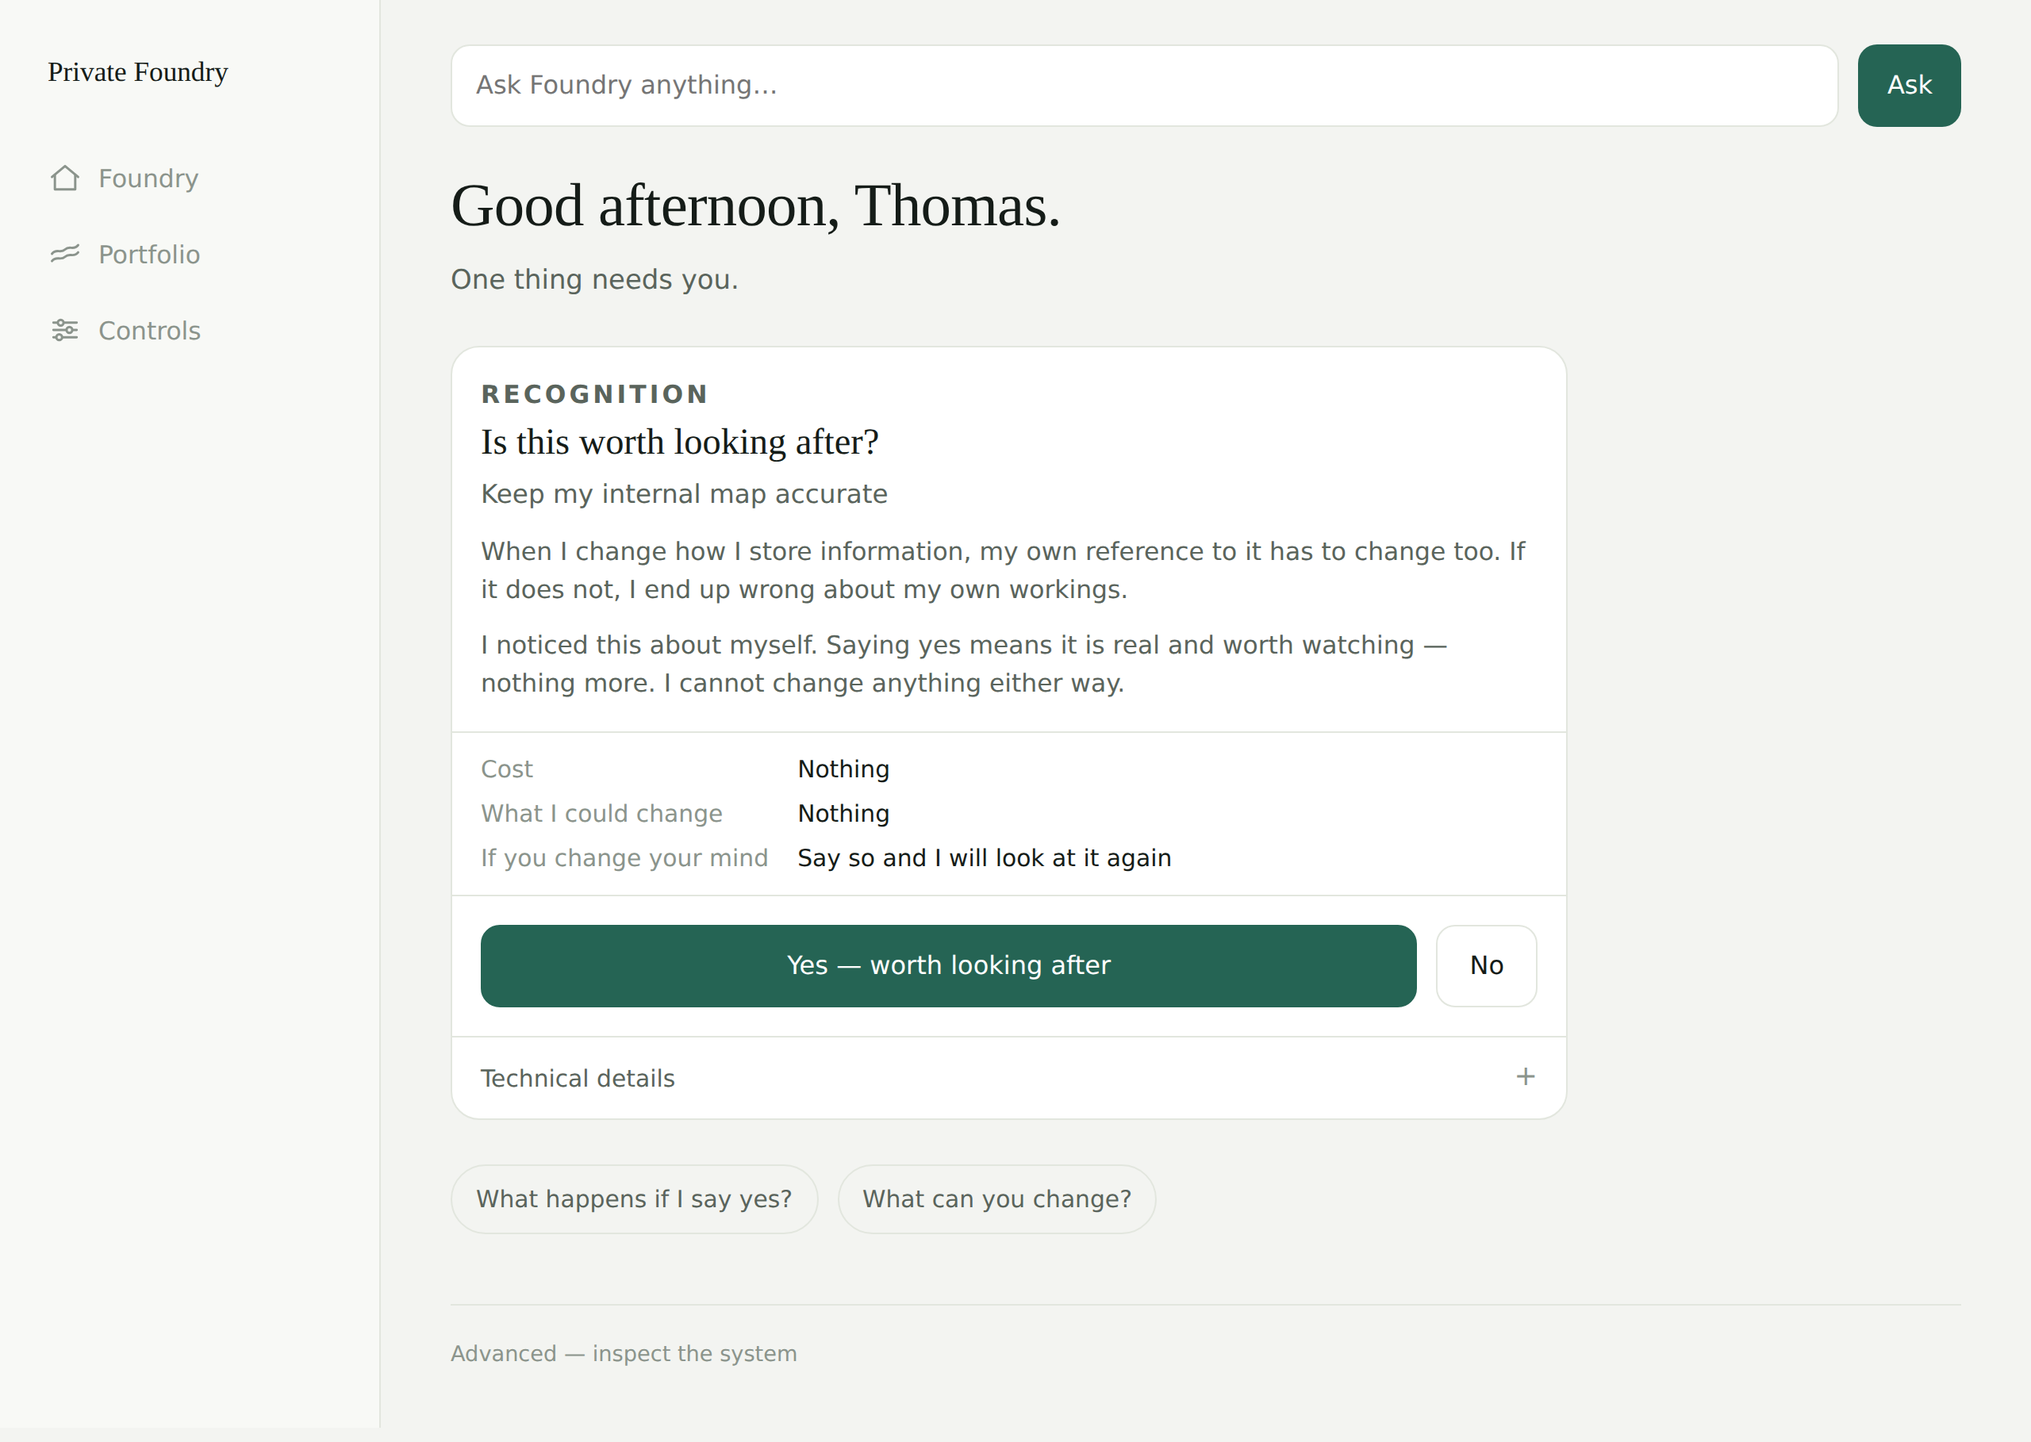
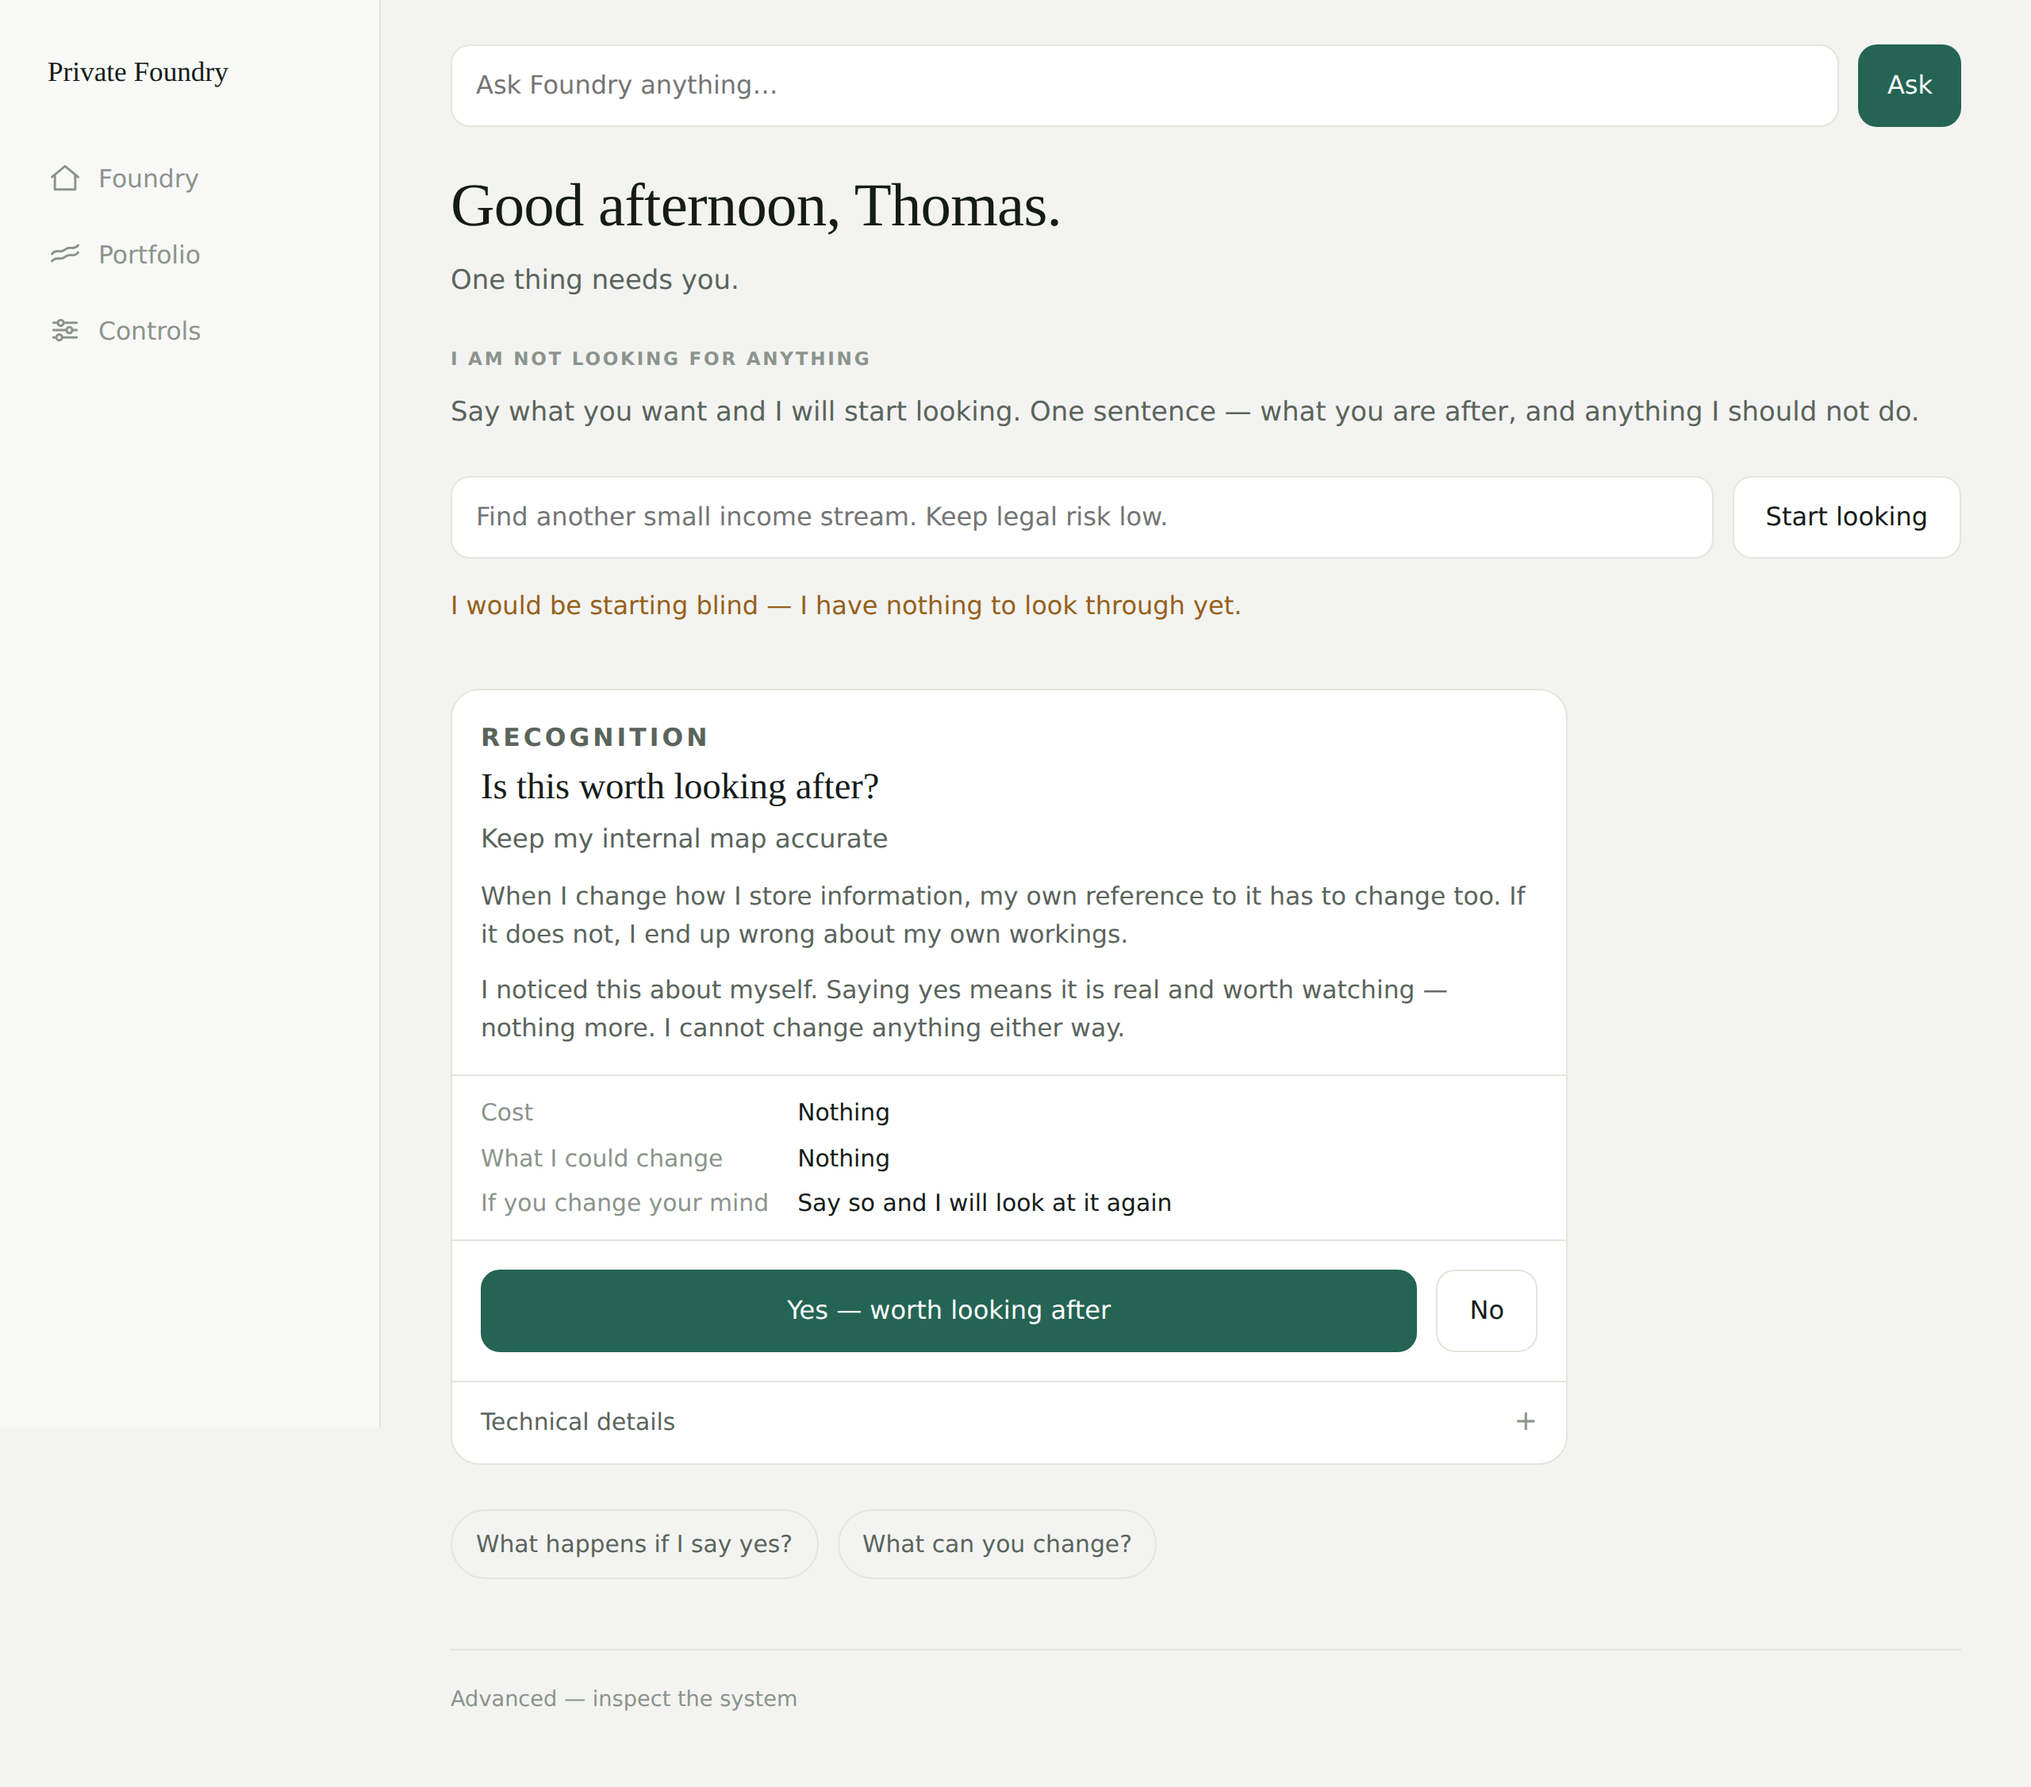
Nothing on any screen offered the search [deploy-private]
Found by reading the deployed database rather than by any test. Production has
never opened a venture mandate and could not have: the whole search card is
built only when a search already exists, so an owner who has never started one
sees nothing about it at all — no sign that Foundry could look for another
asset, no sign of what it can see through, and no way to begin. The route to
begin was there the whole time, reachable by nobody.

A capability the owner cannot discover from his own product is a capability he
does not have.

So: one sentence and one box, because the act is his and the act is a sentence.
It says what it would be looking through, and says plainly that it would be
starting blind when it has nothing — an offer to go looking from an institution
with no eyes is a promise it cannot keep, and he should be able to tell the
difference without asking.

The offer is styled secondary, not primary. The first screen has exactly one
thing to press and that is whatever actually needs him; an existing gate caught
the second primary button and was right to.

Also fixes an ordering defect in the sense check shipped an hour ago: it ran at
05:50, after the 05:45 job that opens the eyes, so a sense promoted this morning
could not be looked through until tomorrow — a whole day of "I have nowhere to
look" caused by nothing but the order of two jobs. It now runs at 05:40.

Both were invoked in production through the institution's own CLI rather than
[…]

diff --git a/tests/unit/nothing-offered-the-search.test.ts b/tests/unit/nothing-offered-the-search.test.ts
@@ -1,0 +1,89 @@
+process.env.TURSO_DATABASE_URL = 'file::memory:';
+process.env.ENCRYPTION_KEY = '0'.repeat(64);
+process.env.FOUNDRY_INSTANCE_POSTURE = 'private_owner';
+process.env.FOUNDRY_OWNER_EMAIL = 'owner@example.com';
+
+import { Hono } from 'hono';
+import { beforeAll, describe, expect, it } from 'vitest';
+import { runMigrations } from '../../src/db/migrate.js';
+import { query } from '../../src/db/client.js';
+import { connectResearchSource } from '../../src/services/venture/research-sources.js';
+import { absorbParagraph, readVentureParagraph } from '../../src/services/venture/mandate.js';
+
+// =============================================================================
+// NOTHING ON ANY SCREEN OFFERED THE SEARCH.
+//
+// FOUND IN PRODUCTION, NOT IN A TEST. The deployed institution had never opened
+// a venture mandate, and could not have: the whole search card is built only
+// when a search already exists, so an owner who has never started one is shown
+// nothing about it at all. No sign that Foundry could look for another asset,
+// no sign of what it can see through, and no way to begin — while the route to
+// begin sat there, reachable by nobody.
+//
+// A capability the owner cannot discover from his own product is a capability
+// he does not have. This is the smallest honest fix: one sentence and one box,
+// because the act is his and the act is a sentence.
+// =============================================================================
+
+const OWNER = 'offer_owner';
+
+let app: Hono;
+/** The real first screen, through the real route. */
+async function shell(): Promise<string> {
+  const res = await app.request('/foundry');
+  return res.text();
+}
+
+beforeAll(async () => {
+  await runMigrations();
+  await query('INSERT INTO founders (id,clerk_user_id,email,name) VALUES (?,?,?,?)',
+    [OWNER, 'clerk_offer', 'owner@example.com', 'Owner']);
+  const { foundryShellRoutes } = await import('../../src/routes/dashboard/foundry-shell.js');
+  app = new Hono();
+  app.use('*', async (c, next) => {
+    c.set('founder' as never,
+      { id: OWNER, email: 'owner@example.com', name: 'Thomas Norton' } as never);
+    c.set('csrfToken' as never, 'test' as never);
+    await next();
+  });
+  app.route('/', foundryShellRoutes);
+});
+
+describe('an owner who has never started a search', () => {
+  it('is told there is none, and offered one', async () => {
+    const body = await shell();
+    expect(body).toContain('I am not looking for anything');
+    // The act is a sentence, so the screen asks for a sentence.
+    expect(body).toContain('action="/foundry/said"');
+    expect(body).toContain('Start looking');
+  });
+
+  it('is honest that it would be starting blind when it has no eyes', async () => {
+    // An offer to go looking from an institution with nothing to look through
+    // is a promise it cannot keep, and he should be able to tell.
+    const body = await shell();
+    expect(body).toContain('starting blind');
+  });
+
+  it('says what it would be looking through once it has eyes', async () => {
+    for (const [type, named] of [['community', 'hn_algolia'], ['directory', 'npm_registry']]) {
+      await connectResearchSource({ founderId: OWNER, sourceType: String(type),
+        named: String(named), neverGrants: 'contact anyone or spend anything',
+        evidenceMode: 'real' });
+    }
+    const body = await shell();
+    expect(body).not.toContain('starting blind');
+    expect(body).toContain('What I would be');
+  });
+
+  it('stops offering once a search exists, and shows the search instead', async () => {
+    await absorbParagraph({ founderId: OWNER, evidenceMode: 'real',
+      readings: readVentureParagraph(
+        'Find another small digital income stream. Keep legal risk low.') });
+    const body = await shell();
+    // The two are never both on the screen, which would be the institution
+    // asking for something it already has.
+    expect(body).not.toContain('I am not looking for anything');
+    expect(body).toContain('What I am looking for');
+  });
+});

diff --git a/src/routes/dashboard/foundry-shell.ts b/src/routes/dashboard/foundry-shell.ts
@@ -86,6 +86,19 @@ interface OwnerState {
   /** Searches he called off, so starting again does not begin from nothing. */
   pastSearches: Array<{ statement: string; closedAt: string; why: string }>;
   /** A venture search, if one is running, and where it honestly is. */
+  /**
+   * WHEN THERE IS NO SEARCH AT ALL.
+   *
+   * A defect found in production rather than in a test: the whole search card
+   * is absent until a search exists, so an owner who has never started one is
+   * shown nothing about it — no sign that Foundry could look for another asset,
+   * no sign that it has working eyes ready, and no way to begin. The route to
+   * start one existed and nothing on any screen offered it.
+   *
+   * One sentence and one box. Not a panel of options: the act is his and it is
+   * a sentence, so the product should ask for a sentence.
+   */
+  notLooking: { canSeeThrough: string[] } | null;
   search: {
     statement: string; guidance: string[]; looked: number; rejected: number;
     open: number; blocked: string | null; wouldNeed: string | null;
@@ -399,6 +412,16 @@ async function readOwnerState(
     pastSearches: await (async () => {
       const { pastSearches } = await import('../../services/venture/mandate.js');
       return pastSearches(founderId);
+    })(),
+    notLooking: await (async () => {
+      const { mandateProgress } = await import('../../services/venture/mandate.js');
+      if (await mandateProgress(founderId) !== null) return null;
+      const { waysOfLooking } = await import('../../services/venture/research-sources.js');
+      const ways = await waysOfLooking(founderId, 'real');
+      // WHAT IT CAN ACTUALLY SEE THROUGH, said plainly. An offer to go looking
+      // from an institution with nothing to look through would be a promise it
+      // could not keep, and he should be able to tell the difference.
+      return { canSeeThrough: ways.map((w) => w.whatItIs) };
     })(),
     search: await (async () => {
       const { mandateProgress } = await import('../../services/venture/mandate.js');
@@ -1911,6 +1934,24 @@ foundryShellRoutes.get('/foundry', async (c) => {
     ${done === 'alreadylooking' ? html`<div class="done"><p><strong>Already looking.</strong>
       Stop that search first, or steer it instead — two at once would compete for the same
       attention.</p></div>` : ''}
+    ${s.notLooking ? html`<div class="know">
+      <h3>I am not looking for anything</h3>
+      <p class="lede">Say what you want and I will start looking. One sentence &mdash;
+        what you are after, and anything I should not do.</p>
+      <form class="inline" method="POST" action="/foundry/said">
+        <input type="text" name="said" required maxlength="300"
+          placeholder="Find another small income stream. Keep legal risk low."
+          aria-label="What to look for, and what not to do" />
+        <!-- SECONDARY, DELIBERATELY. The one primary action on this screen is
+             whatever actually needs him; an offer to go looking is an offer,
+             and two things styled as the decision is one thing too many. -->
+        <button class="btn" type="submit">Start looking</button>
+      </form>
+      ${s.notLooking.canSeeThrough.length ? html`<p class="quiet"><strong>What I would be
+        looking through</strong> &mdash; ${s.notLooking.canSeeThrough.join('; ')}.</p>`
+    : html`<p class="gap">I would be starting blind &mdash; I have nothing
+        to look through yet.</p>`}
+    </div>` : ''}
     ${s.search ? html`<div class="know">
       <h3>What I am looking for</h3>
       <p>${s.search.statement}</p>

diff --git a/src/jobs/index.ts b/src/jobs/index.ts
@@ -2930,7 +2930,12 @@ export const JOB_REGISTRY: Record<string, { fn: () => Promise<void>; schedule: s
         + 'looking answered',
         { jobName: 'sense_check_tick' });
     },
-    schedule: '50 5 * * *',
+    // BEFORE dependency health at 05:45, which is what opens the eyes for
+    // whatever is available by then. Running after it would mean a sense
+    // promoted this morning could not be looked through until tomorrow — a
+    // whole day of "I have nowhere to look" caused by nothing but the order of
+    // two jobs.
+    schedule: '40 5 * * *',
     description:
       'Ask every way of looking Foundry claims to have one dull question, so a sense that '
       + 'works can be looked through and a sense that has stopped working stops being '
